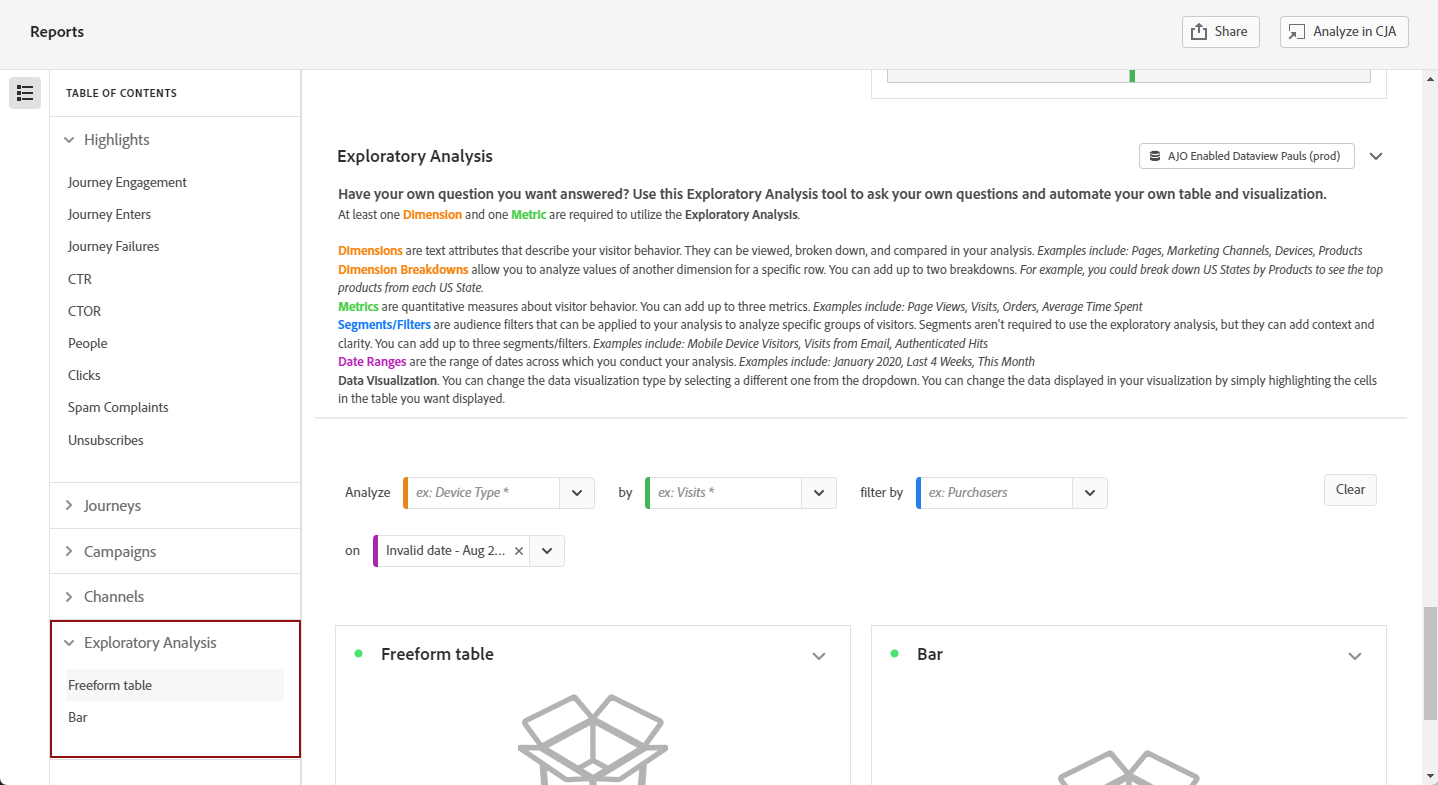
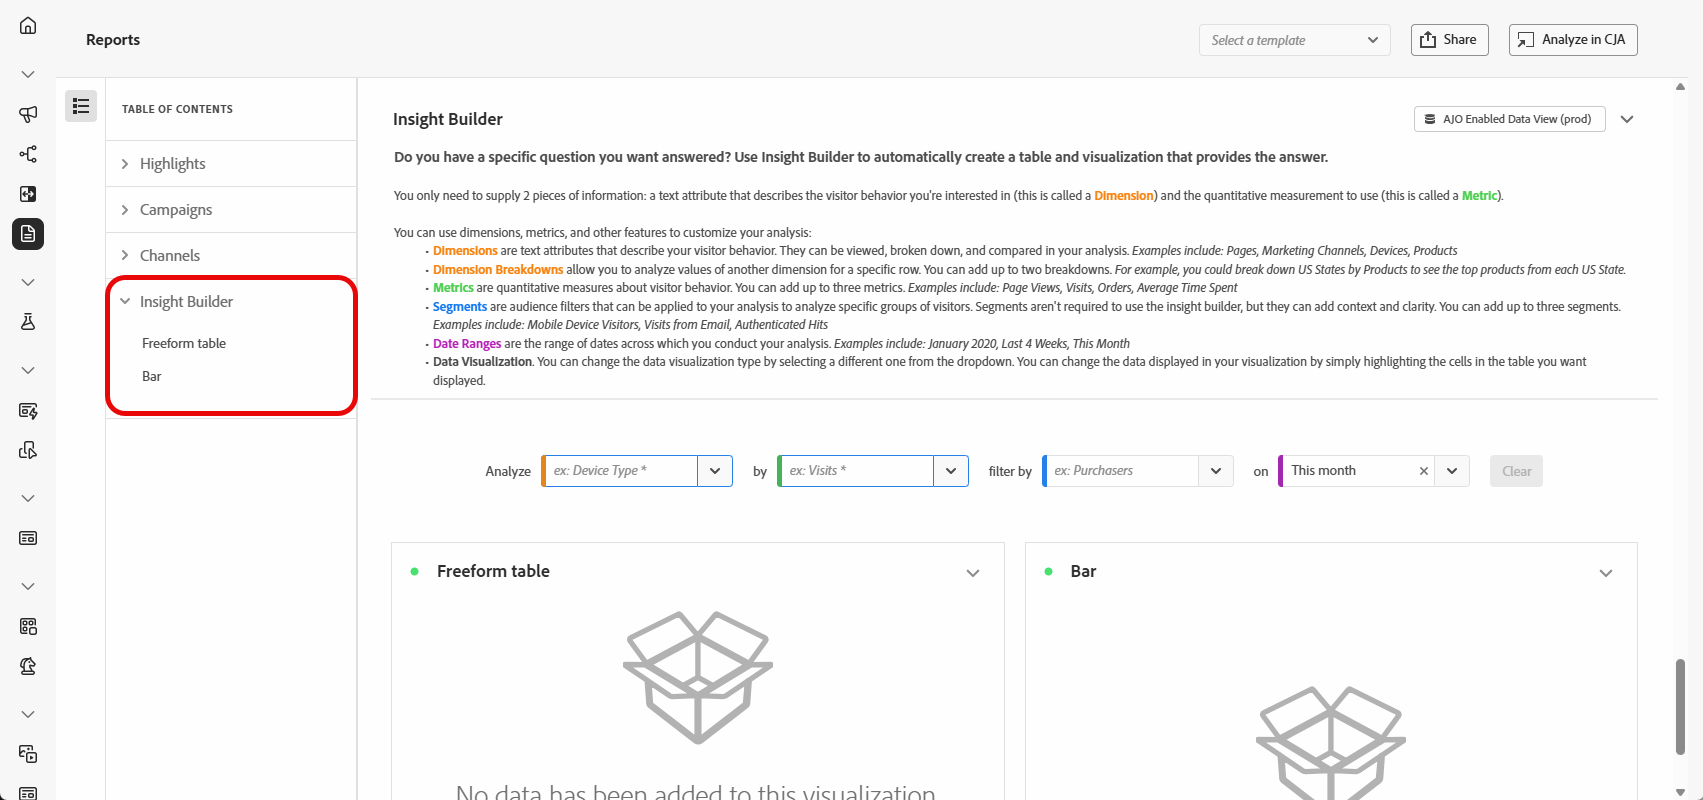
DOCAC-13536  <GIT> Exploratory Analysis

diff --git a/help/using/reports/report-cja-manage.md b/help/using/reports/report-cja-manage.md
@@ -149,13 +149,13 @@ You can create custom calculated metrics directly within your reports. You can g
 
 Your newly created metric will be included when you export the report as a PDF or CSV. However, it will be removed from the report once you exit it.
 
-## Explore data with the Exploratory Analysis {#exploratory}
+## Explore data with the Insight builder {#exploratory}
 
-Use the Exploratory Analysis tool to easily create tables and visualizations from your selected **[!UICONTROL Dimensions]** and **[!UICONTROL Metrics]**. This tool streamlines data exploration, allowing you to automatically customize and analyze information with ease. Learn more in [this documentation](https://experienceleague.adobe.com/en/docs/analytics/analyze/analysis-workspace/panels/quickinsight).
+Use the Insight builder tool to easily create tables and visualizations from your selected **[!UICONTROL Dimensions]** and **[!UICONTROL Metrics]**. This tool streamlines data exploration, allowing you to automatically customize and analyze information with ease. Learn more in [this documentation](https://experienceleague.adobe.com/en/docs/analytics/analyze/analysis-workspace/panels/quickinsight).
 
-1. Start by accessing the report where you want to use the Exploratory Analysis.
+1. Start by accessing the report where you want to use the Insight builder.
 
-1. Select the Exploratory Analysis menu from the left-rail menu.
+1. Select the Insight builder menu from the left-rail menu.
 
    ![](assets/exploratory_analysis_1.png)
 
